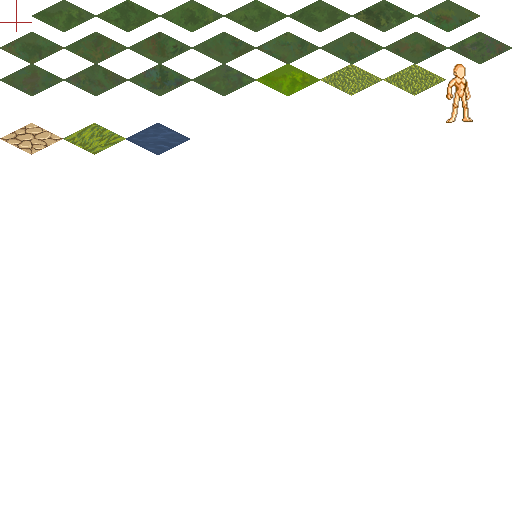
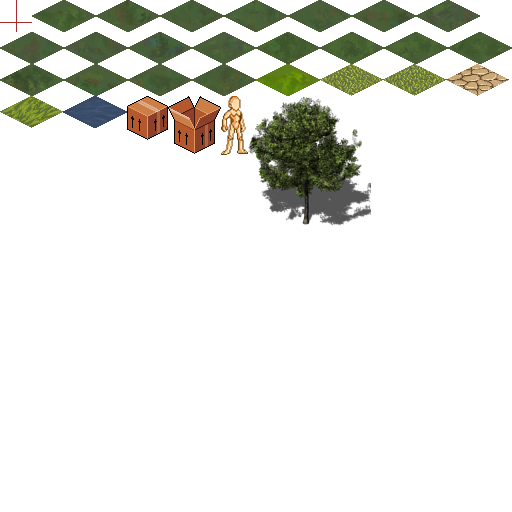
objects

Changed region(s): [[0.0, 0.1875, 0.7188, 0.4375], [0.875, 0.125, 1.0, 0.25], [0.2812, 0.0625, 0.3125, 0.0938]]

diff --git a/backend/src/com/origin/model/Player.kt b/backend/src/com/origin/model/Player.kt
@@ -1,11 +1,16 @@
 package com.origin.model
 
+import com.origin.TimeController
+import com.origin.collision.CollisionResult
 import com.origin.entity.Character
+import com.origin.entity.EntityObject
+import com.origin.idfactory.IdFactory
 import com.origin.model.BroadcastEvent.ChatMessage.Companion.SYSTEM
 import com.origin.model.move.Move2Point
 import com.origin.model.move.MoveMode
 import com.origin.net.model.CreatureSay
 import com.origin.net.model.GameSession
+import kotlinx.coroutines.CompletableDeferred
 import kotlinx.coroutines.ObsoleteCoroutinesApi
 import kotlinx.coroutines.launch
 import org.jetbrains.exposed.sql.transactions.transaction
@@ -111,7 +116,45 @@ class Player(
                 session.send(CreatureSay(0, "online: ${World.getPlayersCount()}", SYSTEM))
             }
             "spawn" -> {
+                val obj = transaction {
+                    val o = EntityObject.new(IdFactory.getNext()) {
+                        x = pos.x
+                        y = pos.y
+                        gridx = pos.gridX
+                        gridy = pos.gridY
+                        level = pos.level
+                        region = pos.region
+                        heading = 0
+                        type = 23
+                        quality = 10
+                        createTick = TimeController.instance.tickCount
+                    }
+                    val obj = StaticObject(o)
+                    obj
+                }
+                val resp = CompletableDeferred<CollisionResult>()
+                grid.send(GridMsg.Spawn(obj, resp))
+            }
 
+            "spawn2" -> {
+                val obj = transaction {
+                    val o = EntityObject.new(IdFactory.getNext()) {
+                        x = pos.x
+                        y = pos.y
+                        gridx = pos.gridX
+                        gridy = pos.gridY
+                        level = pos.level
+                        region = pos.region
+                        heading = 0
+                        type = 1
+                        quality = 10
+                        createTick = TimeController.instance.tickCount
+                    }
+                    val obj = StaticObject(o)
+                    obj
+                }
+                val resp = CompletableDeferred<CollisionResult>()
+                grid.send(GridMsg.Spawn(obj, resp))
             }
         }
     }

diff --git a/backend/src/com/origin/entity/EntityObject.kt b/backend/src/com/origin/entity/EntityObject.kt
@@ -1,5 +1,6 @@
 package com.origin.entity
 
+import org.jetbrains.exposed.dao.LongEntity
 import org.jetbrains.exposed.dao.LongEntityClass
 import org.jetbrains.exposed.dao.id.EntityID
 
@@ -7,6 +8,12 @@ import org.jetbrains.exposed.dao.id.EntityID
  * игровые объекты на карте
  */
 object EntityObjects : EntityPositions("objects") {
+
+    /**
+     * координаты грида в котором находится объект
+     */
+    val gridx = integer("gridx")
+    val gridy = integer("gridy")
 
     /**
      * тип объекта
@@ -27,26 +34,35 @@ object EntityObjects : EntityPositions("objects") {
      * время создания, игровой тик сервера
      * @see com.origin.TimeController.tickCount
      */
-    val createTick = integer("createTick")
+    val createTick = long("createTick")
 
     /**
      * время последнего апдейта объекта
      * если логика объекта требует периодического обновления
      */
-    val lastTick = integer("lastTick").default(0)
+    val lastTick = long("lastTick").default(0)
 
     /**
      * внутренние данные объекта в json формате
      */
-    val data = text("data")
+    val data = text("data").nullable()
 
     init {
         index(false, region, x, y, level)
     }
 }
 
-class EntityObject(id: EntityID<Long>) : EntityPosition(id) {
+class EntityObject(id: EntityID<Long>) : LongEntity(id) {
     companion object : LongEntityClass<EntityObject>(EntityObjects)
+
+    var region by EntityObjects.region
+    var x by EntityObjects.x
+    var y by EntityObjects.y
+    var level by EntityObjects.level
+    var heading by EntityObjects.heading
+
+    var gridx by EntityObjects.gridx
+    var gridy by EntityObjects.gridy
 
     var type by EntityObjects.type
     var quality by EntityObjects.quality

diff --git a/backend/src/com/origin/model/Grid.kt b/backend/src/com/origin/model/Grid.kt
@@ -2,6 +2,8 @@ package com.origin.model
 
 import com.origin.TimeController
 import com.origin.collision.CollisionResult
+import com.origin.entity.EntityObject
+import com.origin.entity.EntityObjects
 import com.origin.entity.GridEntity
 import com.origin.model.GameObjectMsg.OnObjectAdded
 import com.origin.model.GameObjectMsg.OnObjectRemoved
@@ -15,6 +17,8 @@ import kotlinx.coroutines.ObsoleteCoroutinesApi
 import kotlinx.coroutines.channels.actor
 import kotlinx.coroutines.channels.consumeEach
 import org.jetbrains.exposed.sql.ResultRow
+import org.jetbrains.exposed.sql.and
+import org.jetbrains.exposed.sql.transactions.transaction
 import org.slf4j.Logger
 import org.slf4j.LoggerFactory
 import java.util.concurrent.ConcurrentLinkedQueue
@@ -92,6 +96,10 @@ class Grid(r: ResultRow, l: LandLayer) : GridEntity(r, l) {
      */
     private val isActive: Boolean get() = !activeObjects.isEmpty()
 
+    init {
+        loadObjects()
+    }
+
     /**
      * актор для обработки сообщений
      */
@@ -144,6 +152,16 @@ class Grid(r: ResultRow, l: LandLayer) : GridEntity(r, l) {
             }
             is GridMsg.Update -> update()
             is GridMsg.Broadcast -> activeObjects.forEach { it.send(msg.e) }
+        }
+    }
+
+    private fun loadObjects() {
+        transaction {
+            val list =
+                EntityObject.find { (EntityObjects.gridx eq x) and (EntityObjects.gridy eq y) and (EntityObjects.region eq region) and (EntityObjects.level eq level) }
+            list.forEach {
+                objects.add(StaticObject(it))
+            }
         }
     }
 

diff --git a/backend/src/com/origin/entity/EntityPosition.kt b/backend/src/com/origin/entity/EntityPosition.kt
@@ -1,14 +1,12 @@
 package com.origin.entity
 
-import org.jetbrains.exposed.dao.LongEntity
-import org.jetbrains.exposed.dao.id.EntityID
 import org.jetbrains.exposed.dao.id.LongIdTable
 
 /**
  * позиция объектов в игровом мире
  * общие поля для всех игровых объектов
  */
-abstract class EntityPositions(name: String = "", columnName: String = "id") : LongIdTable(name, columnName) {
+open class EntityPositions(name: String = "", columnName: String = "id") : LongIdTable(name, columnName) {
     /**
      * на каком континенте находится объект, либо ид дома (инстанса, локации)
      */
@@ -29,12 +27,4 @@ abstract class EntityPositions(name: String = "", columnName: String = "id") : L
      * угол поворота
      */
     val heading = short("heading")
-}
-
-abstract class EntityPosition(id: EntityID<Long>) : LongEntity(id) {
-    var region by Characters.region
-    var x by Characters.x
-    var y by Characters.y
-    var level by Characters.level
-    var heading by Characters.heading
 }

diff --git a/frontend/src/game/ObjectView.ts b/frontend/src/game/ObjectView.ts
@@ -13,10 +13,22 @@ export default class ObjectView {
     constructor(obj: GameObject) {
         this.obj = obj
 
-        if (obj.t == "Player") {
+        if (obj.c == "Player") {
             this.view = PIXI.Sprite.from("man")
+        } else if (obj.c == "StaticObject") {
+            switch (obj.t) {
+                case 23 :
+                    this.view = PIXI.Sprite.from("box")
+                    break
+                case 1 :
+                    this.view = PIXI.Sprite.from("tree1")
+                    break
+                default :
+                    this.view = PIXI.Sprite.from("box")
+                    break
+            }
         } else {
-            throw Error("unknown type object "+obj.t)
+            throw Error("unknown class object " + obj.c)
         }
         this.onMoved()
     }

diff --git a/backend/src/com/origin/entity/Character.kt b/backend/src/com/origin/entity/Character.kt
@@ -1,6 +1,7 @@
 package com.origin.entity
 
 import com.origin.timestamp
+import org.jetbrains.exposed.dao.LongEntity
 import org.jetbrains.exposed.dao.LongEntityClass
 import org.jetbrains.exposed.dao.id.EntityID
 
@@ -30,8 +31,14 @@ object Characters : EntityPositions("characters") {
     val onlineTime = long("onlineTime").default(0)
 }
 
-class Character(id: EntityID<Long>) : EntityPosition(id) {
+class Character(id: EntityID<Long>) : LongEntity(id) {
     companion object : LongEntityClass<Character>(Characters)
+
+    var region by Characters.region
+    var x by Characters.x
+    var y by Characters.y
+    var level by Characters.level
+    var heading by Characters.heading
 
     var account by Account referencedOn Characters.account
     var name by Characters.name

diff --git a/backend/src/com/origin/net/model/GameResponse.kt b/backend/src/com/origin/net/model/GameResponse.kt
@@ -8,6 +8,7 @@ import com.origin.model.BroadcastEvent
 import com.origin.model.BroadcastEvent.ChatMessage.Companion.GENERAL
 import com.origin.model.GameObject
 import com.origin.model.Grid
+import com.origin.model.StaticObject
 import com.origin.utils.ObjectID
 import com.origin.utils.StringTypeAdapter
 import kotlinx.coroutines.ObsoleteCoroutinesApi
@@ -78,7 +79,8 @@ class ObjectAdd(obj: GameObject) : ServerMessage("oa") {
     val x = obj.pos.x
     val y = obj.pos.y
     val h = obj.pos.heading
-    val t: String = obj.javaClass.simpleName
+    val c: String = obj.javaClass.simpleName
+    val t = if (obj is StaticObject) obj.type else 0
 }
 
 @ObsoleteCoroutinesApi

diff --git a/backend/src/com/origin/model/Human.kt b/backend/src/com/origin/model/Human.kt
@@ -22,7 +22,7 @@ abstract class Human(id: ObjectID, x: Int, y: Int, level: Int, region: Int, head
      * дистанция на которой мы видим объекты
      * может изменяться динамически (ночью видим хуже)
      */
-    private var visibleDistance = 6 * TILE_SIZE
+    private var visibleDistance = 15 * TILE_SIZE
 
     /**
      * объекты которые известны мне, инфа о которых отправляется и синхронизирована с клиентом

diff --git a/backend/src/com/origin/model/StaticObject.kt b/backend/src/com/origin/model/StaticObject.kt
@@ -1,9 +1,11 @@
 package com.origin.model
 
-import com.origin.utils.ObjectID
+import com.origin.entity.EntityObject
 import kotlinx.coroutines.ObsoleteCoroutinesApi
 
 @ObsoleteCoroutinesApi
-class StaticObject(id: ObjectID, x: Int, y: Int, level: Int, region: Int, heading: Short) :
-    GameObject(id, x, y, level, region, heading) {
+class StaticObject(entity: EntityObject) :
+    GameObject(entity.id.value, entity.x, entity.y, entity.level, entity.region, entity.heading) {
+
+    val type = entity.type
 }

diff --git a/backend/src/com/origin/TimeController.kt b/backend/src/com/origin/TimeController.kt
@@ -95,7 +95,8 @@ class TimeController : Thread("TimeController") {
      * игровое время в тиках (сколько тиков с начала мира прошло)
      * @see TICKS_PER_SECOND
      */
-    private var tickCount: Long = 0
+    var tickCount: Long = 0
+        private set
 
     /**
      * загрузка информации о времени из базы

diff --git a/frontend/src/net/Packets.ts b/frontend/src/net/Packets.ts
@@ -10,7 +10,8 @@ export interface ObjectAdd {
     x: number
     y: number
     h: number
-    t: string
+    c: string
+    t: number
 }
 
 export interface ObjectDel {
